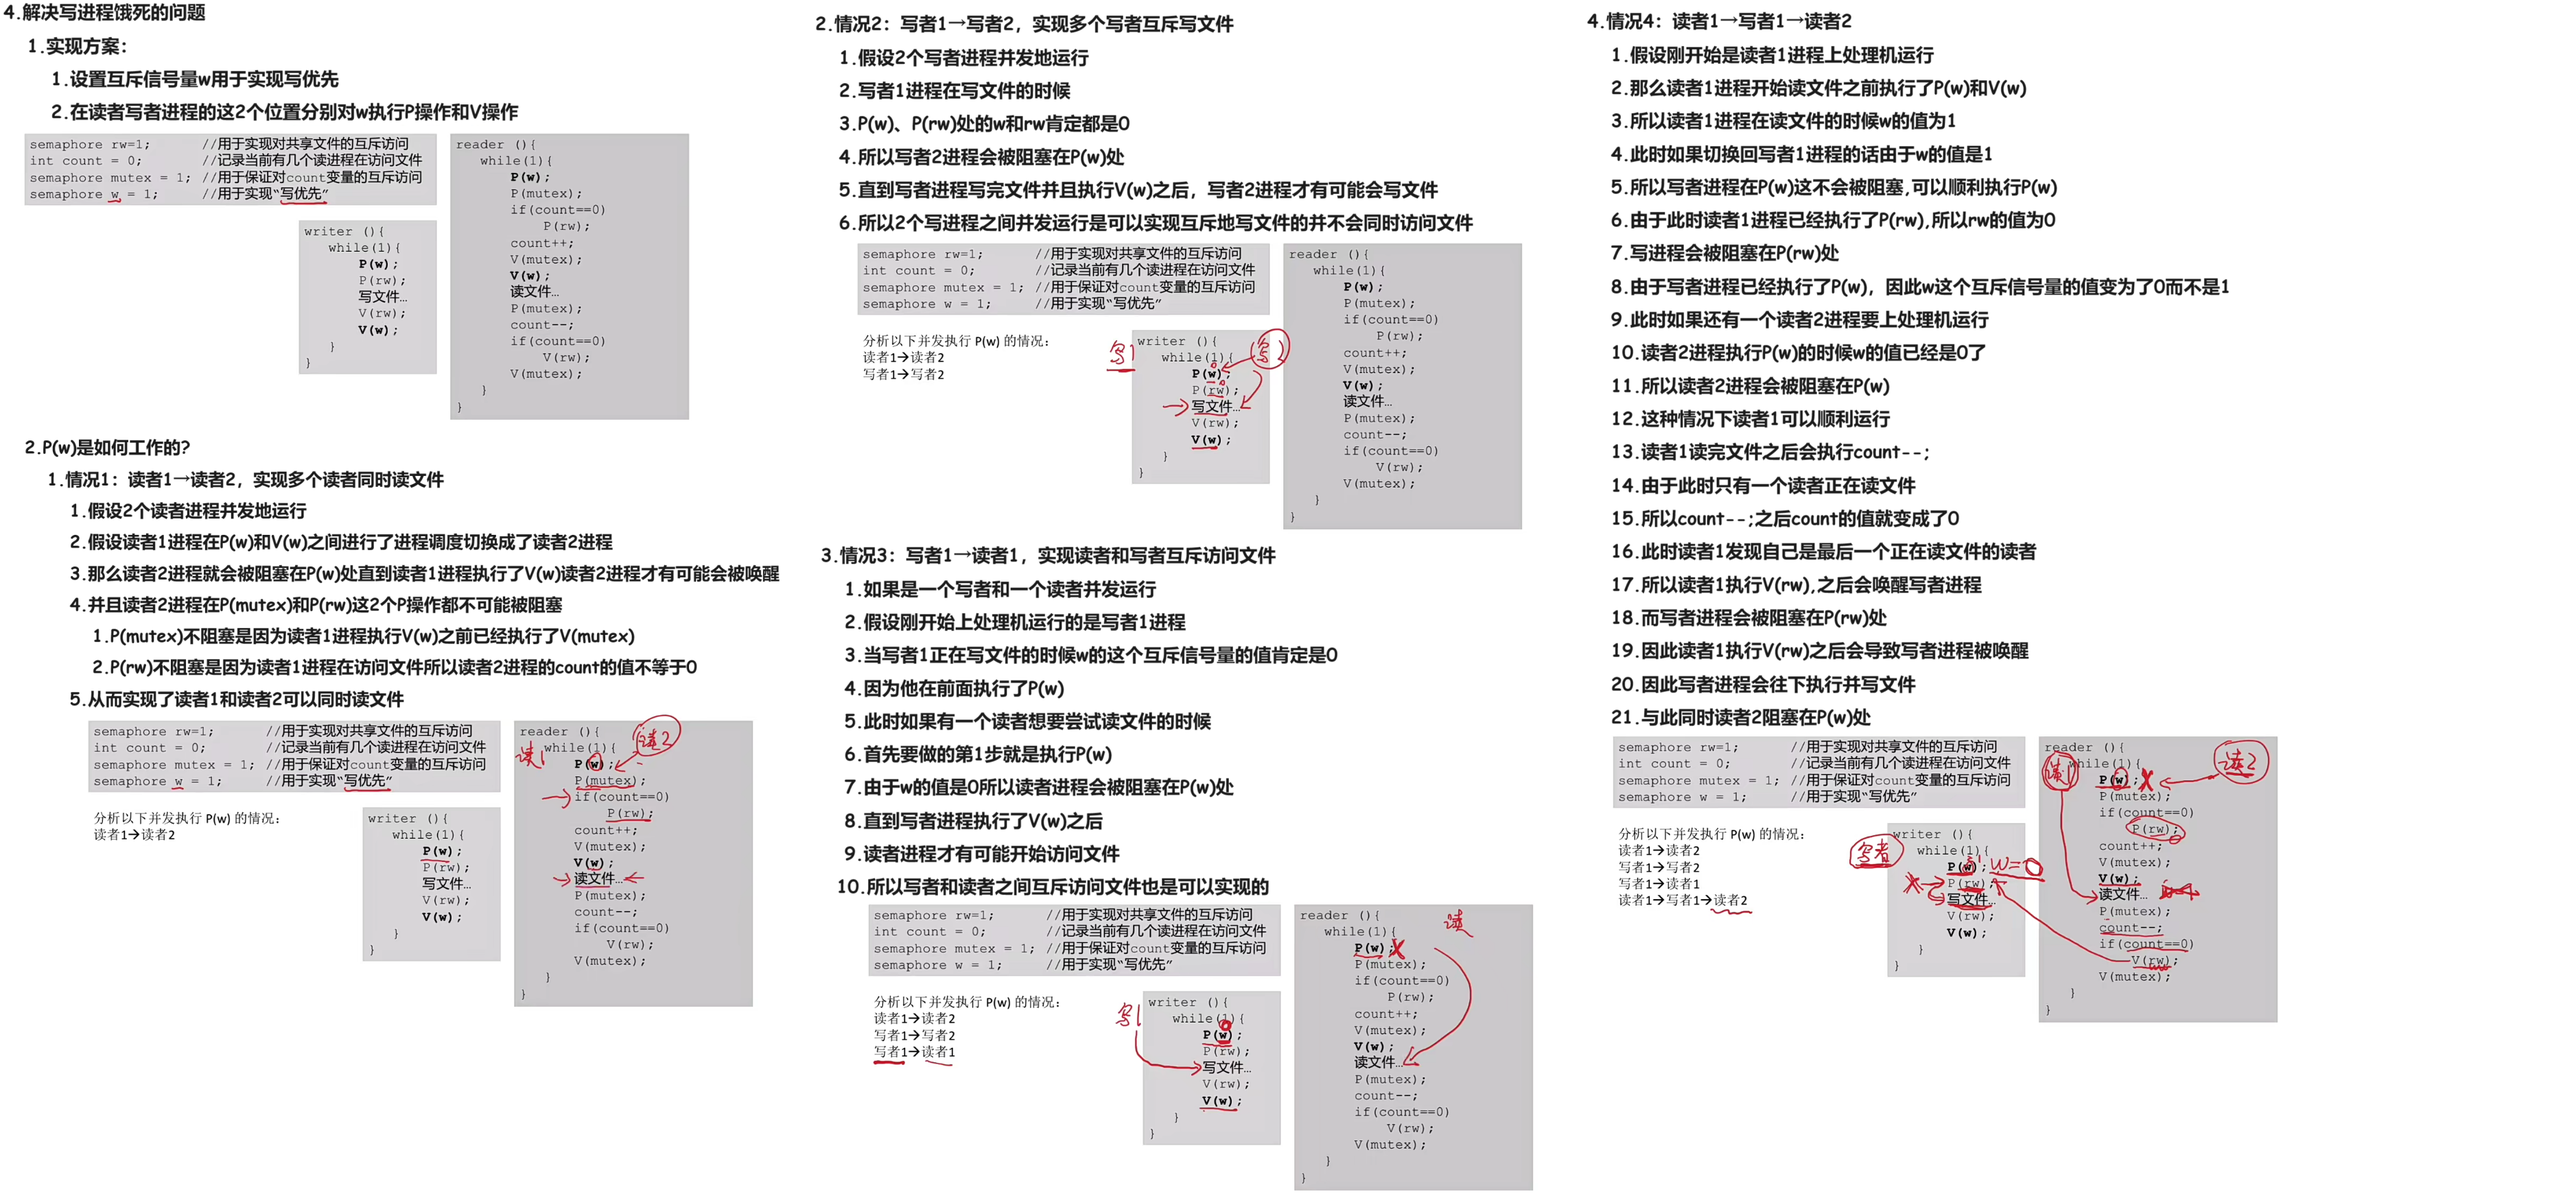
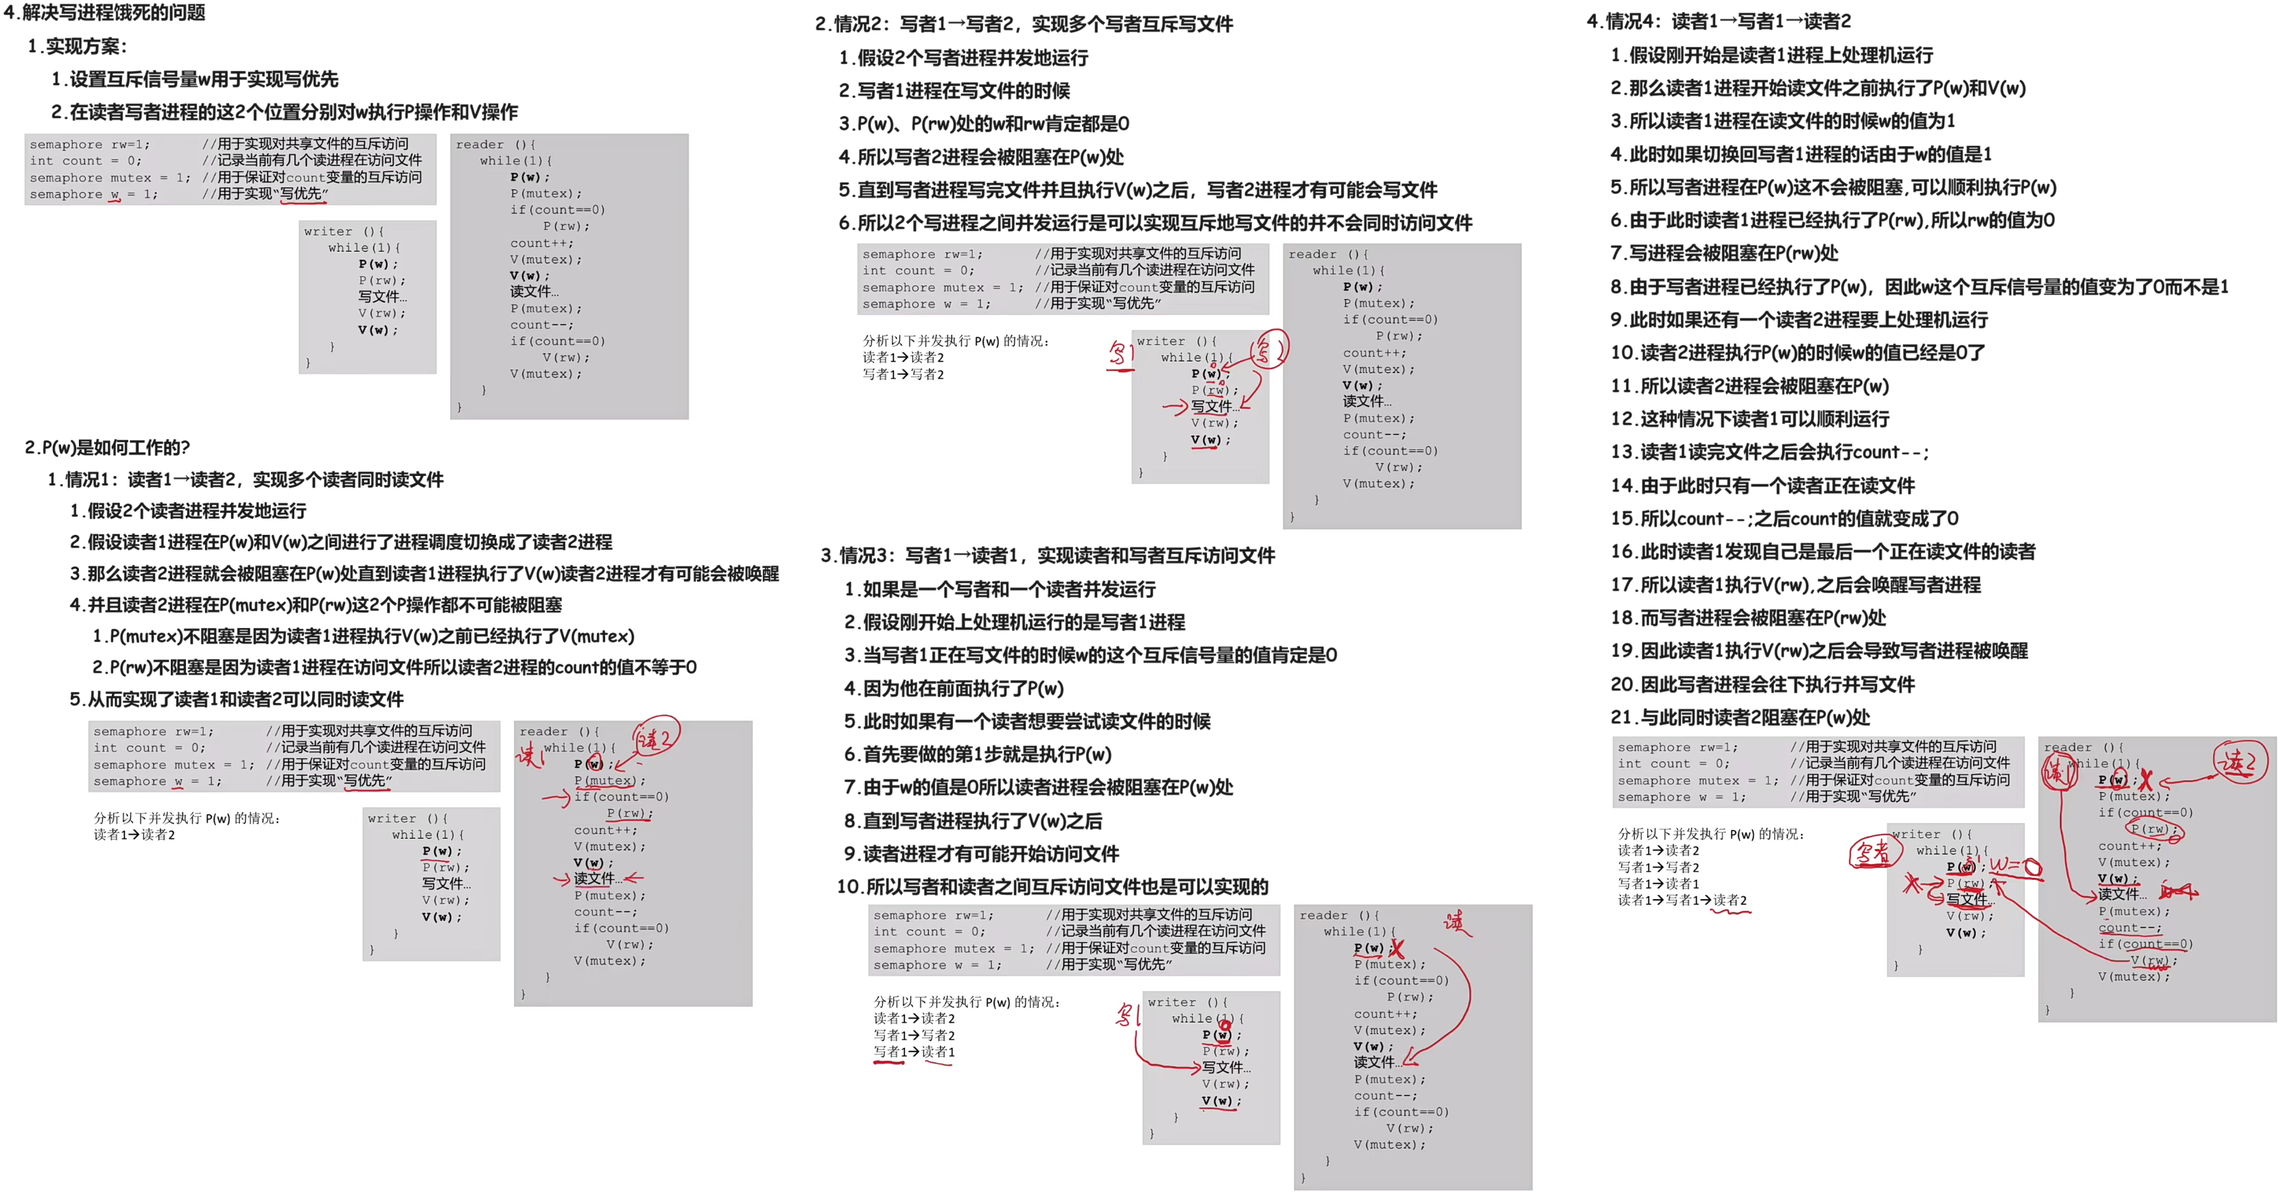
231218

Changed region(s): [[0.0, 0.0, 0.9961, 1.0]]

diff --git a/04 每日一题/03 操作系统知识点/01 读写者问题 231215/01 Doc.md b/04 每日一题/03 操作系统知识点/01 读写者问题 231215/01 Doc.md
@@ -4,6 +4,6 @@
 
 # 背诵
 
-<img src="https://cvp.oss-cn-shanghai.aliyuncs.com/picgo/202312181602589.png" alt="image-20231218160255893" style="zoom:50%;" />
+<img src="https://cvp.oss-cn-shanghai.aliyuncs.com/picgo/202312181606494.png" alt="image-20231218160627804" style="zoom:50%;" />
 
-<img src="https://cvp.oss-cn-shanghai.aliyuncs.com/picgo/202312181602579.png" alt="image-20231218160231000" style="zoom:50%;" />
+<img src="https://cvp.oss-cn-shanghai.aliyuncs.com/picgo/202312181607280.png" alt="image-20231218160659687" style="zoom:50%;" />
